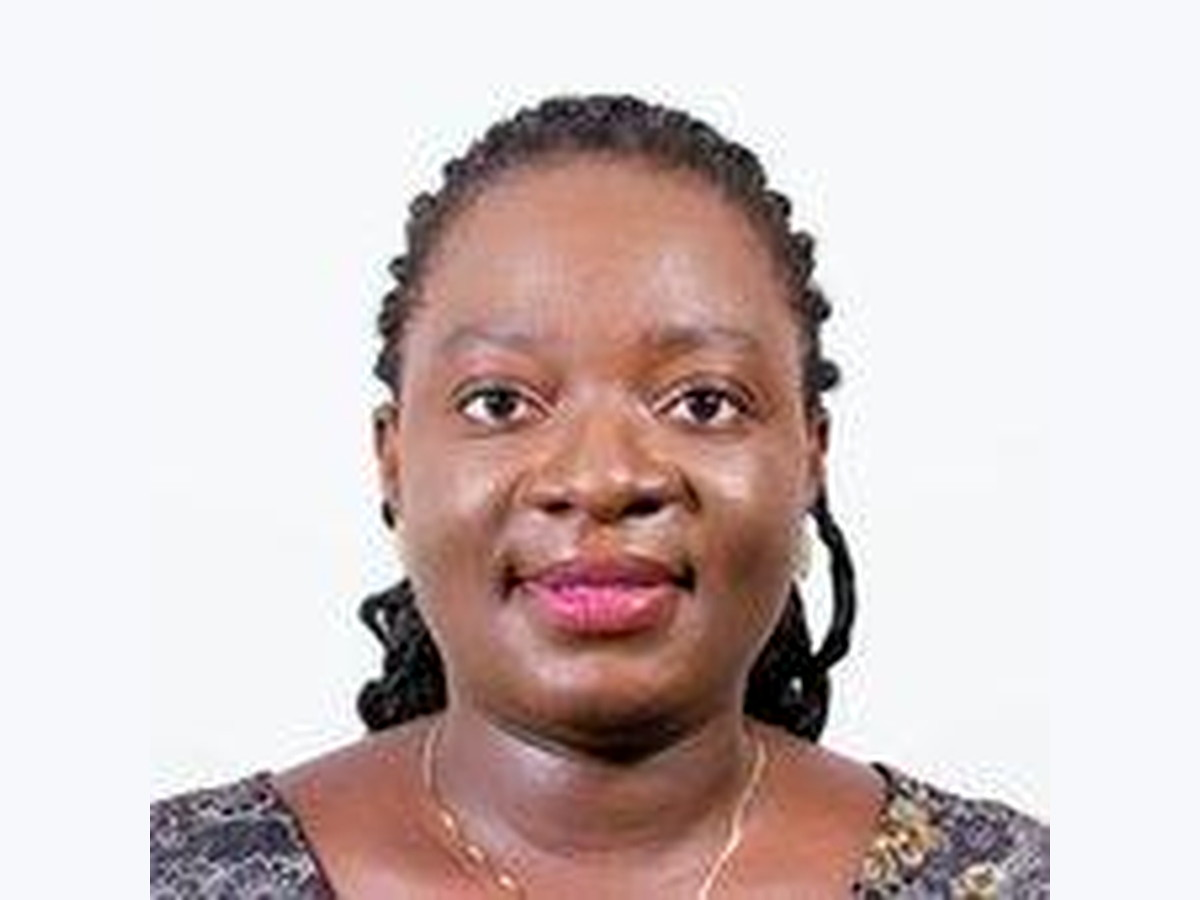
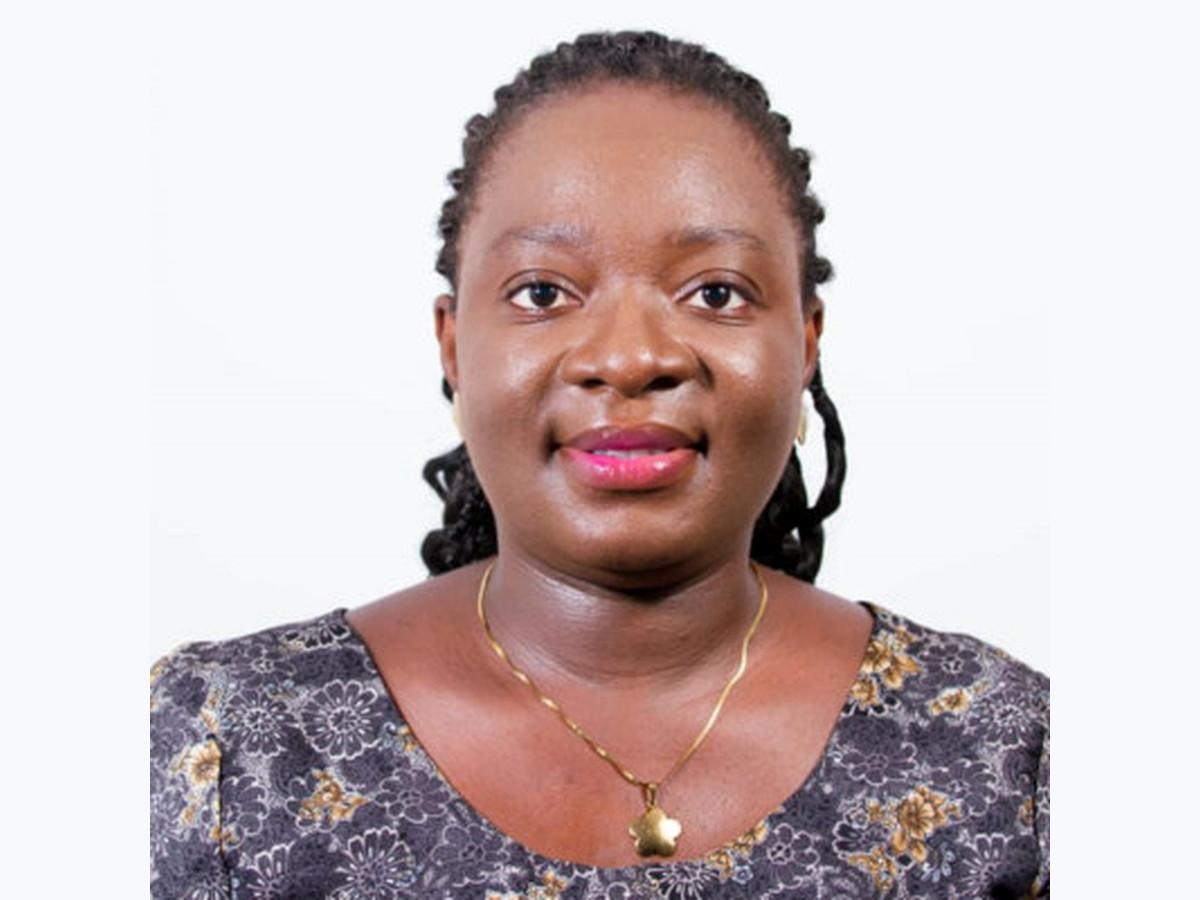
Update Dr. Josephine Akuba Buah Timtey board portrait

diff --git a/index.html b/index.html
@@ -2485,7 +2485,7 @@
       </article>
       <article class="board-card">
         <div class="board-card-media">
-          <img src="assets/leadership/josephine-buah-timtey.jpg" alt="Portrait of Dr. Josephine Akuba Buah Timtey" width="400" height="300" loading="lazy" decoding="async">
+          <img src="assets/leadership/josephine-buah-timtey.jpg?v=20260503c" alt="Portrait of Dr. Josephine Akuba Buah Timtey" width="400" height="300" loading="lazy" decoding="async">
         </div>
         <h3 class="team-name">Dr. Josephine Akuba Buah Timtey</h3>
         <p class="team-role">Director</p>
